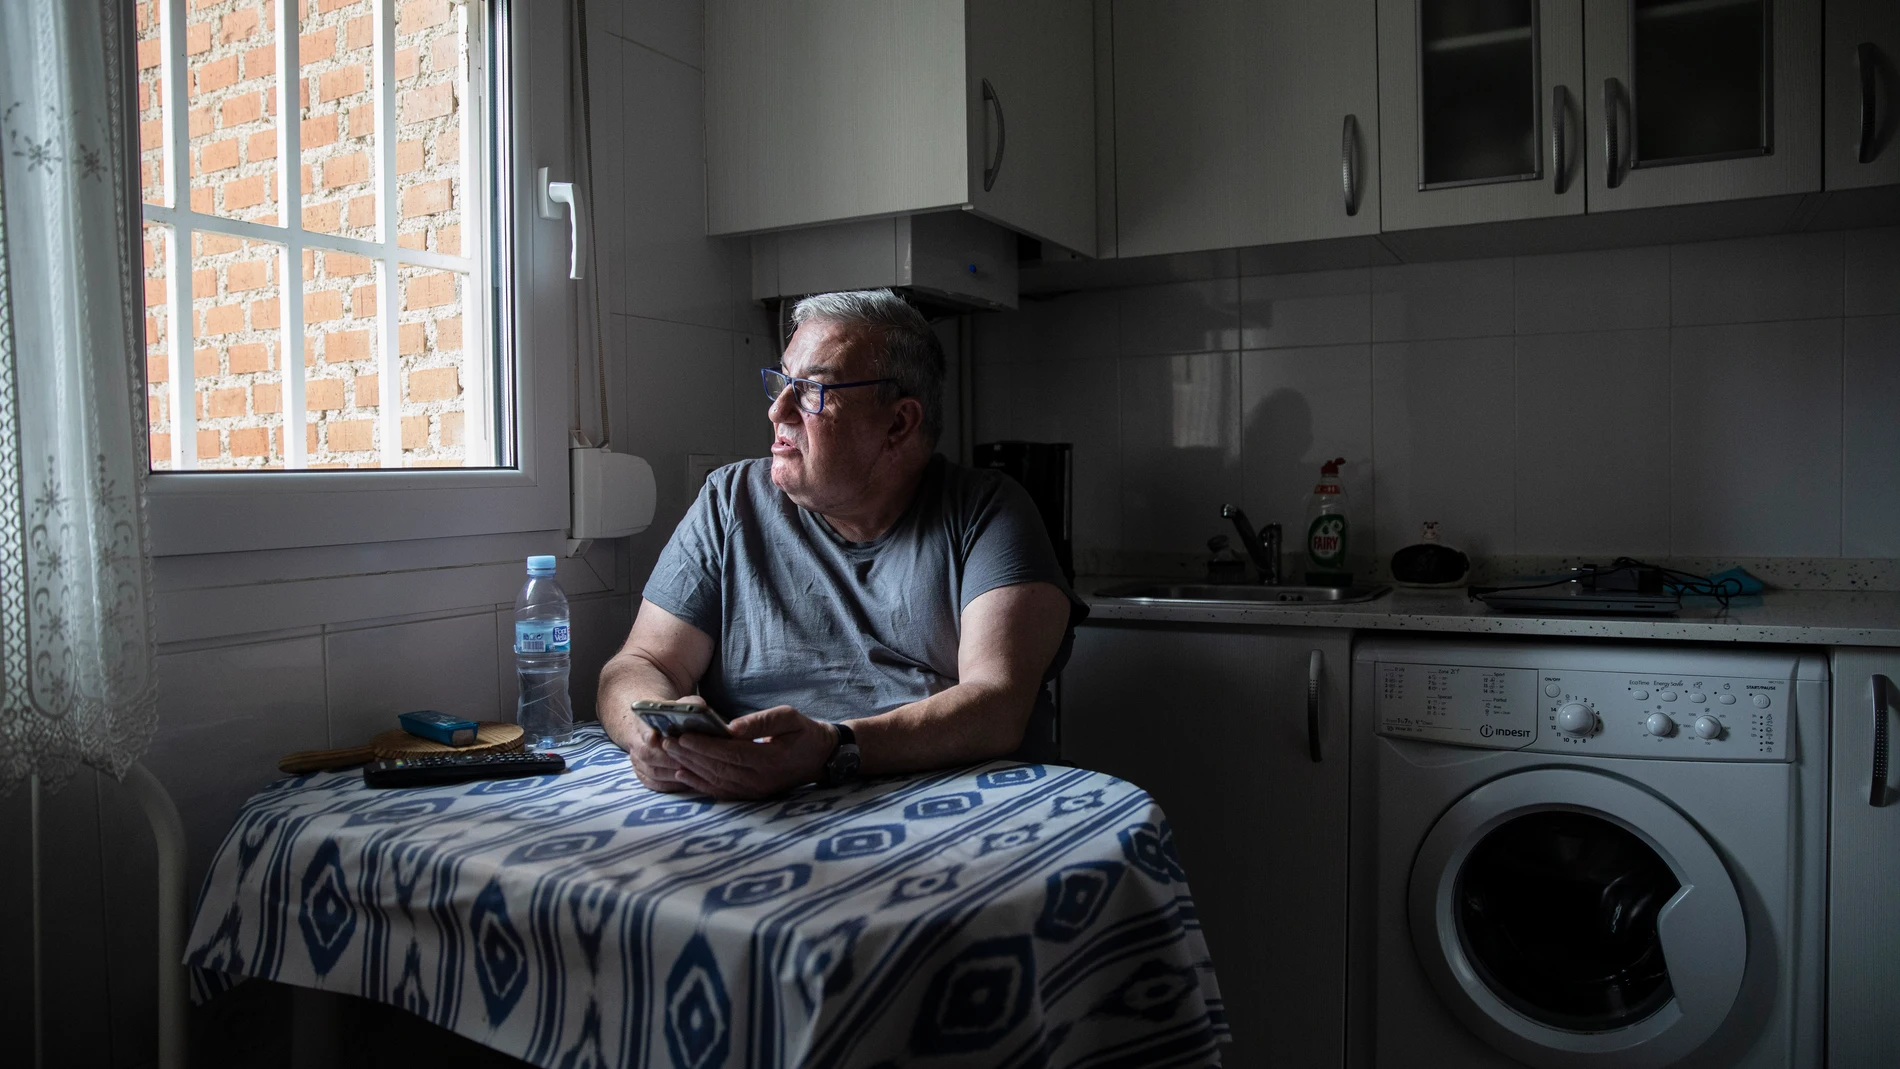
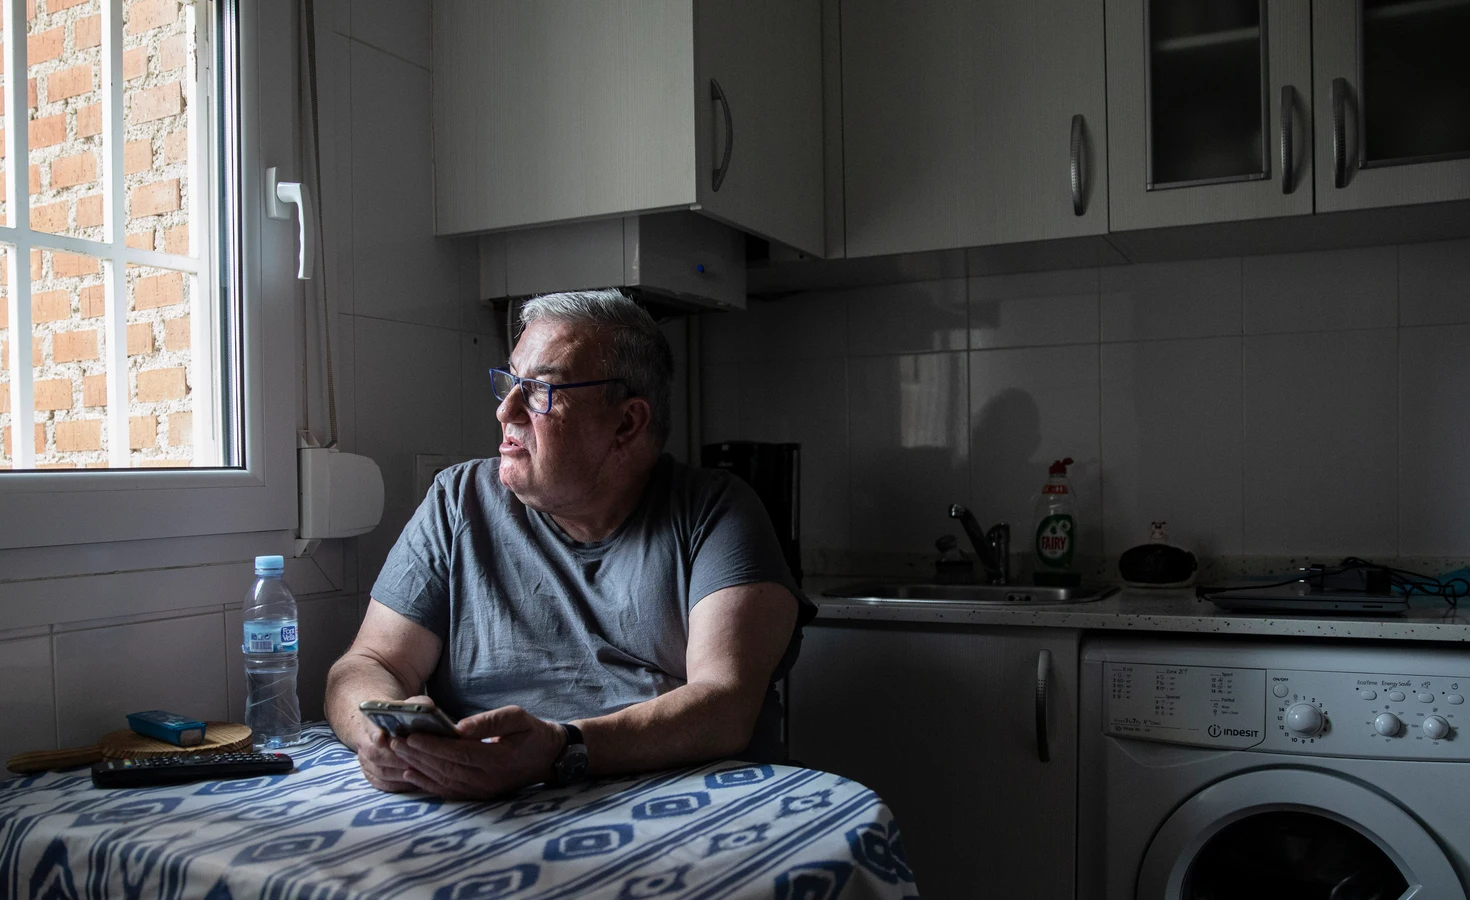
[MAIN][UPDATE] Scroll photos

diff --git a/index.html b/index.html
@@ -124,7 +124,7 @@
                 </div>
             </div>
             <div class="owl-carousel-item position-relative">
-                <img class="img-fluid" src="img/anciana-joven.jpg" alt="">
+                <img class="img-fluid" src="img/ancianos.jpg" alt="">
                 <div class="position-absolute top-0 start-0 w-100 h-100 d-flex align-items-center"
                     style="background: rgba(53, 53, 53, .7);">
                     <div class="container">
